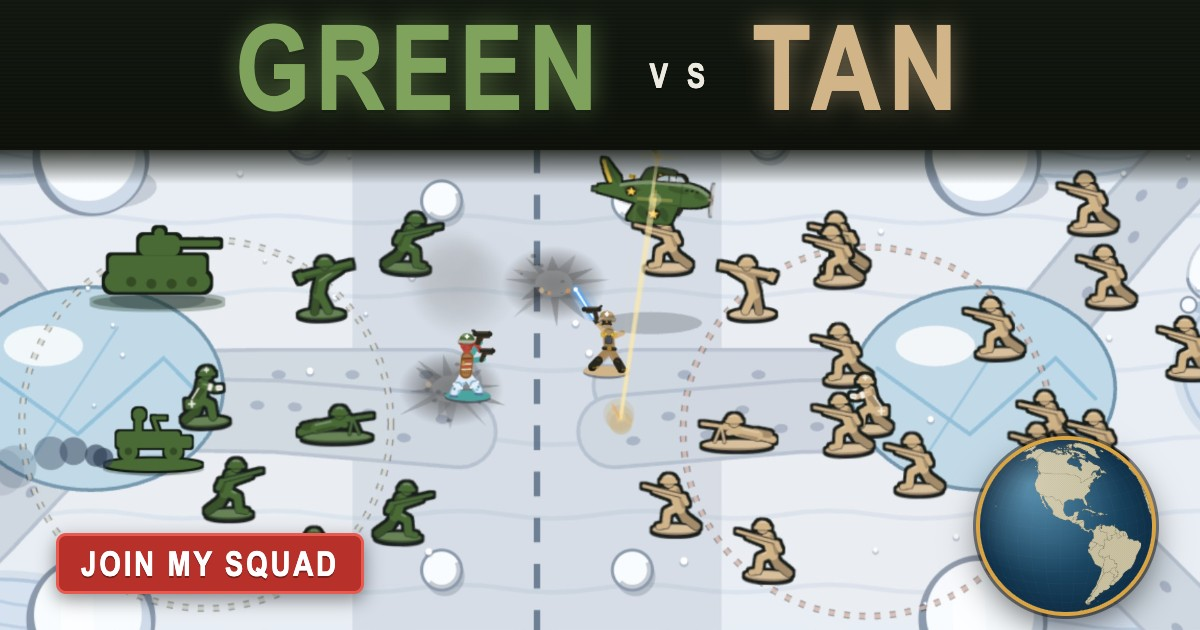
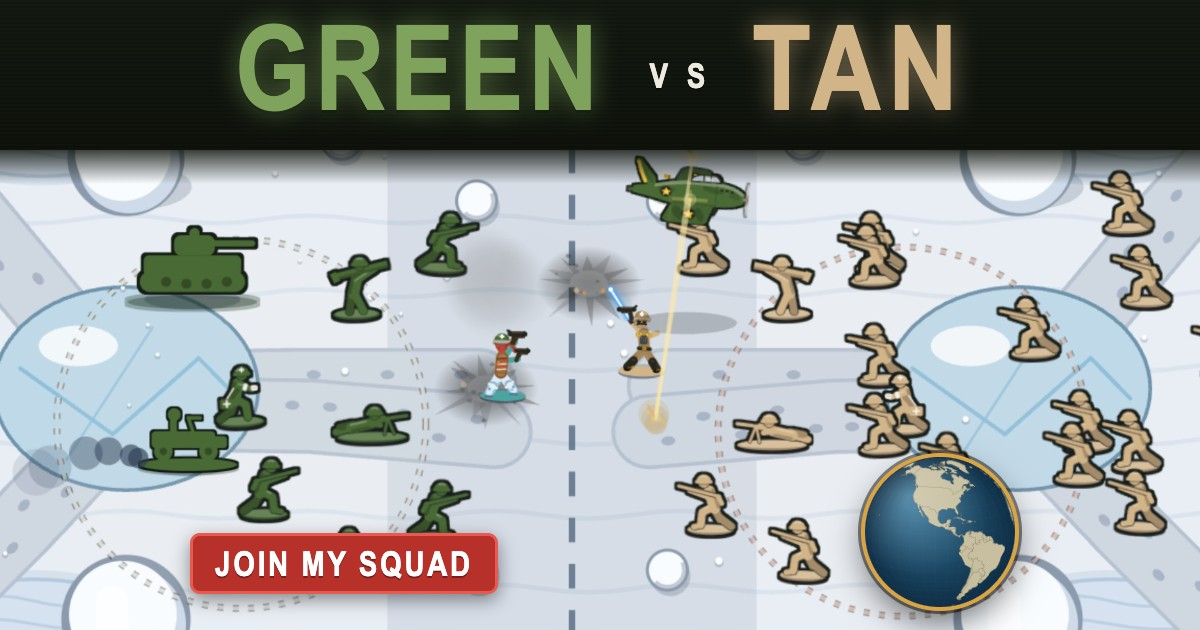
The link's picture, refit: the JOIN MY SQUAD chip and the globe sit inside the middle of the picture, so a phone's Messages card shows them whole.

diff --git a/join/index.html b/join/index.html
@@ -4,7 +4,7 @@
 <meta charset="utf-8">
 <meta name="viewport" content="width=device-width, initial-scale=1, viewport-fit=cover">
 <meta http-equiv="Content-Security-Policy" content="default-src 'self'; script-src 'unsafe-inline'; style-src 'unsafe-inline'; img-src 'self'; base-uri 'none'; form-action 'none'; object-src 'none'">
-<!-- CARD-INV-W THE JOIN PAGE + CARD-INV-ST THE STORE (design/squad-text-invite-1006/03-BUILD-INV-ST.md) + CARD-INV-HM THE PICTURE (05-BUILD-INV-HM.md: A4, the image tags read og.jpg?v=a4; the one source is now build-inv-hm/join/src/join.html): a text's link lands here. Messages reads the Open
+<!-- CARD-INV-W THE JOIN PAGE + CARD-INV-ST THE STORE (design/squad-text-invite-1006/03-BUILD-INV-ST.md) + CARD-INV-HM THE PICTURE (05-BUILD-INV-HM.md: A4, the image tags read og.jpg?v=a4s (A4 SAFE: the parts that matter inside the middle a phone card keeps); the one source is now build-inv-hm/join/src/join.html): a text's link lands here. Messages reads the Open
      Graph tags below for its rich card (the sender's phone fetches this page at compose time). A friend who has the app never sees this page: the link opens
      the app (CARD-INV-B). A friend who does not is sent straight to the store by the one line of script: the App Store page everywhere, Google Play on an
      Android phone, the web game (../?join=CODE&by=SENDER) only on an Amazon tablet, which has no store page. A preview fetcher (iMessage's identifies
@@ -17,7 +17,7 @@
 <meta property="og:site_name" content="Green vs Tan">
 <meta property="og:title" content="Join my squad in Green vs Tan">
 <meta property="og:description" content="Plastic army men. Real friends. One tap and you're in.">
-<meta property="og:image" content="https://playgvt.net/join/og.jpg?v=a4">
+<meta property="og:image" content="https://playgvt.net/join/og.jpg?v=a4s">
 <meta property="og:image:type" content="image/jpeg">
 <meta property="og:image:width" content="1200">
 <meta property="og:image:height" content="630">
@@ -26,7 +26,7 @@
 <meta name="twitter:card" content="summary_large_image">
 <meta name="twitter:title" content="Join my squad in Green vs Tan">
 <meta name="twitter:description" content="Plastic army men. Real friends. One tap and you're in.">
-<meta name="twitter:image" content="https://playgvt.net/join/og.jpg?v=a4">
+<meta name="twitter:image" content="https://playgvt.net/join/og.jpg?v=a4s">
 <link rel="icon" href="../favicon.svg" type="image/svg+xml">
 <link rel="apple-touch-icon" href="../apple-touch-icon.png">
 <script>if(!/facebookexternalhit|Facebot|Twitterbot|Slackbot|Discordbot|WhatsApp|LinkedInBot|TelegramBot|Googlebot|bingbot/i.test(navigator.userAgent))location.replace((function(u,q){if(/Silk|Kindle|\bKF[A-Z]{2,}/.test(u)){var s=(q.match(/[?&]s=([A-Za-z0-9]{4,8})(?:&|$)/)||[])[1],b=(q.match(/[?&]by=([0-9A-Fa-f]{8,40})(?:&|$)/)||[])[1];return '../'+(s?'?join='+s.toUpperCase()+(b?'&by='+b.toLowerCase():''):'');}return /Android/i.test(u)?'https://play.google.com/store/apps/details?id=com.corkscrewgames.gvt':'https://apps.apple.com/app/id6793353373';})(navigator.userAgent,location.search));</script>
